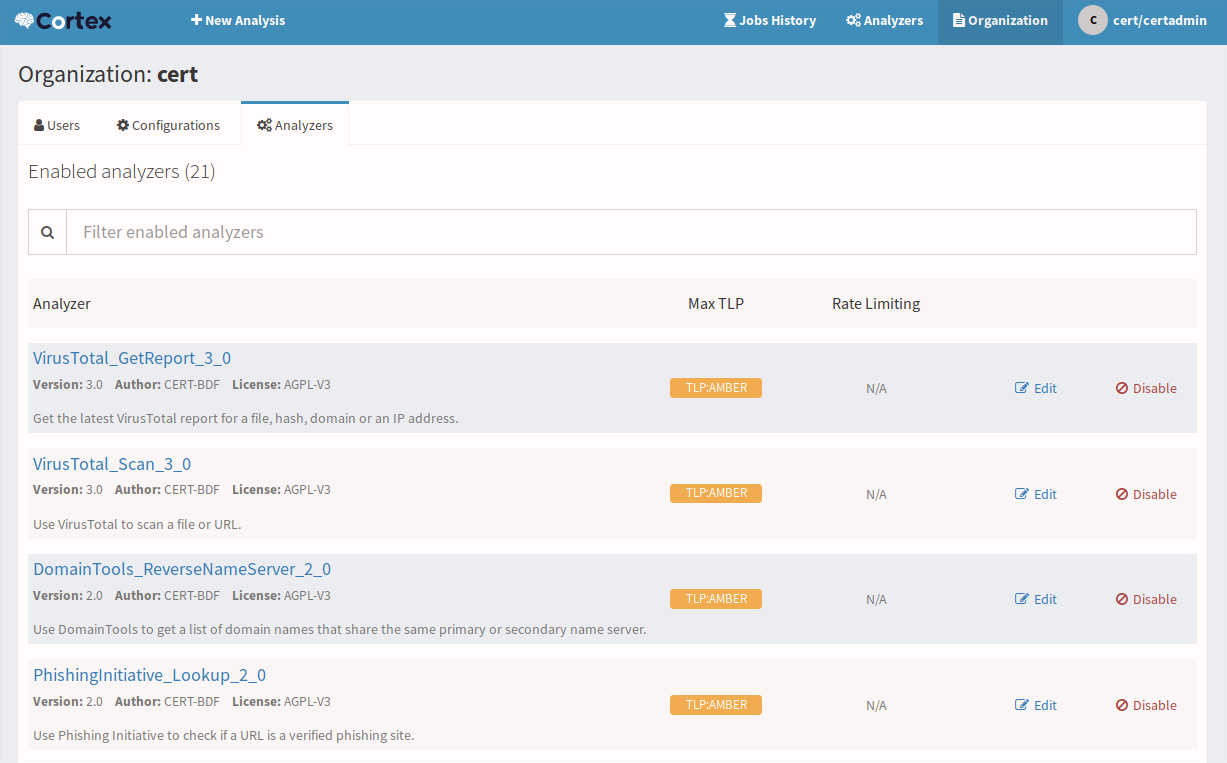
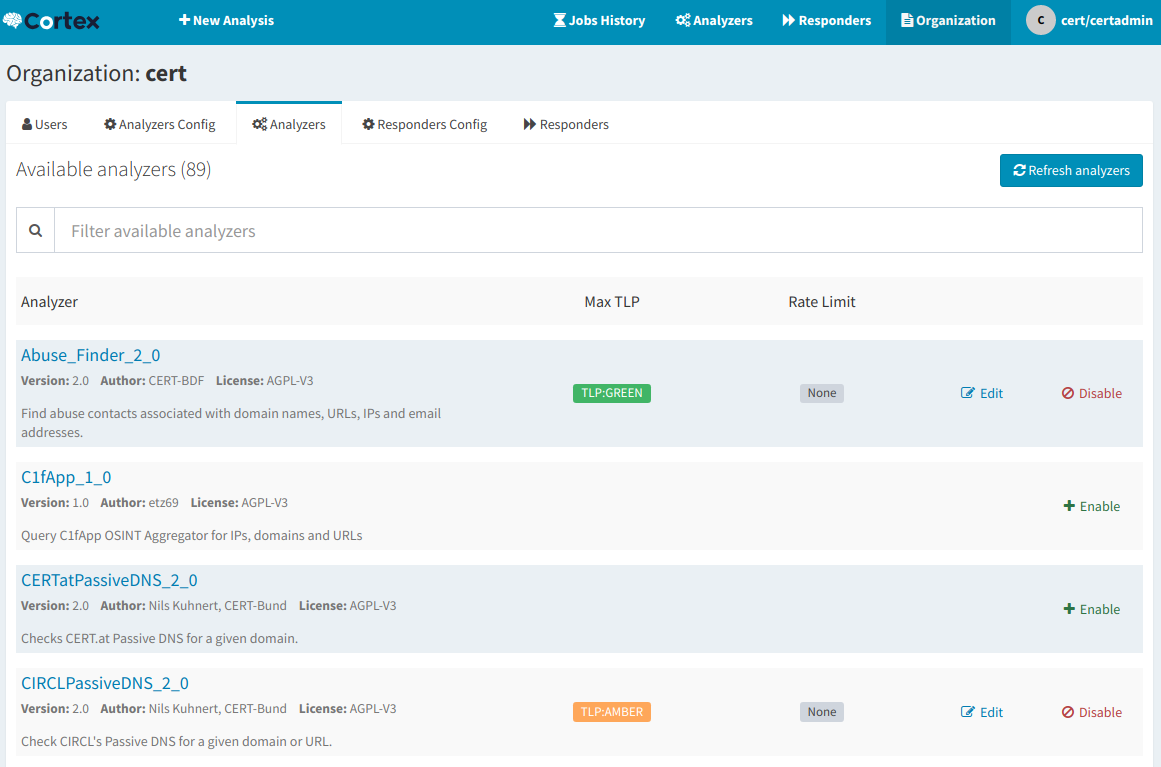
Update documenation to include responders

diff --git a/installation/install-guide.md b/installation/install-guide.md
@@ -169,6 +169,14 @@ Analyzers are embedded in the docker image under `/opt/Cortex-Analyzers/analyzer
 --volume /path/to/analyzers:/opt/Cortex-Analyzers/analyzers:ro thehiveproject/cortex:latest  
 ```
 
+#### Responders
+Like analyzers, responnders are embedded in the docker image under `/opt/Cortex-Analyzers/reponders`. To use new analyzers or get updates for the existing ones, you should
+[install them](#analyzers-1) outside of Docker and overwrite the existing ones by adding the following parameter:
+
+```
+--volume /path/to/responders:/opt/Cortex-Analyzers/responders:ro thehiveproject/cortex:latest  
+```
+
 #### What to Do Next?
 Once the Docker image is up and running, proceed to the configuration using the [Quick Start Guide](../admin/quick-start.md). For more advanced configuration options, please refer to the [Administration Guide](../admin/admin-guide.md).
 
@@ -266,9 +274,9 @@ bin/cortex -Dconfig.file=/etc/cortex/application.conf
 
 Please note that the service may take some time to start. Once it is started, you may launch your browser and connect to `http://YOUR_SERVER_ADDRESS:9001/`.
 
-#### 6. Plug Analyzers
+#### 6. Plug Analyzers and Responders
 Now that Cortex has successfully started, download `Cortex-Analyzers`, edit the configuration file then set the analyzer path to
-`Cortex-Analyzers/analyzers` as described in [the section below](#analyzers-1).
+`Cortex-Analyzers/analyzers` and `Cortex-Analyzers/responders` as described in [the section below](#analyzers-and-responders).
 
 #### 7. Update
 To update Cortex from binaries, just stop the service, download the latest package, rebuild the link `/opt/cortex` and
@@ -425,13 +433,13 @@ npm run build
 
 This step generates static files (HTML, JavaScript and related resources) in  the `dist` directory. They can be readily imported on a HTTP server.
 
-## Analyzers
-Analyzers are autonomous applications managed by and run through the Cortex core engine. Analyzers have their
+## Analyzers and Responders
+Analyzers and Responders are autonomous applications managed by and run through the Cortex core engine. They have their
 [own dedicated GitHub repository](https://github.com/TheHive-Project/Cortex-Analyzers). 
-They are included in the Cortex binary, RPM and DEB packages and in the Docker image as well. However, you to get them from the repository if you need to update them after installing one of those packages. This operation is is necessary when new analyzers are released or new versions of existing ones are made available, or if you decide to build Cortex from sources.
+They are included in the Docker image but must be installed separately in binary, RPM and DEB packages.
 
 ### Installation
-Currently, all the analyzers supported by TheHive Project are written in Python 2 or 3. They don't require any build phase but their dependencies have
+Currently, all the analyzers and responders supported by TheHive Project are written in Python 2 or 3. They don't require any build phase but their dependencies have
 to be installed. Before proceeding, you'll need to install the system package dependencies that are required by some of them:
 
 ```
@@ -452,8 +460,8 @@ git clone https://github.com/TheHive-Project/Cortex-Analyzers
 Each analyzer comes with its own, pip compatible `requirements.txt` file. You can install all requirements with the following commands:
 
 ```
-for I in Cortex-Analyzers/analyzers/*/requirements.txt; do sudo -H pip2 install -r $I; done && \
-for I in Cortex-Analyzers/analyzers/*/requirements.txt; do sudo -H pip3 install -r $I || true; done
+for I in $(find Cortex-Analyzers -name 'requirements.txt'); do sudo -H pip2 install -r $I; done && \
+for I in $(find Cortex-Analyzers -name 'requirements.txt'); do sudo -H pip3 install -r $I || true; done
 ```
 
 Next, you'll need to tell Cortex where to find the analyzers. Analyzers may be in different directories as shown in this dummy example of the Cortex configuration file (`application.conf`):
@@ -475,9 +483,26 @@ analyzer {
     parallelism-max = 4
   }
 }
+
+responder {
+  # Directory that holds responders
+  path = [
+    "/path/to/default/responder",
+    "/path/to/my/own/responder"
+  ]
+
+  fork-join-executor {
+    # Min number of threads available for analyze
+    parallelism-min = 2
+    # Parallelism (threads) ... ceil(available processors * factor)
+    parallelism-factor = 2.0
+    # Max number of threads available for analyze
+    parallelism-max = 4
+  }
+}
 ```
 ### Configuration
-All analyzers must be configured using the Web UI. Please read the [Quick Start Guide](../admin/quick-start.md) to create at least one organization then let a user with the `orgAdmin` role configure and enable analyzers for that organization.
+All analyzers and responders must be configured using the Web UI. Please read the [Quick Start Guide](../admin/quick-start.md) to create at least one organization then let a user with the `orgAdmin` role configure and enable analyzers for that organization.
 
 Some analyzers can be used out of the box, without any configuration, while others may require various parameters. Please check the [Analyzer Requirements Guide](../analyzer_requirements.md) for further details.
 
@@ -491,8 +516,8 @@ $ sudo git pull
 Then install any missing requirements:
 
 ```bash
-for I in /path/to/Cortex-Analyzers/analyzers/*/requirements.txt; do sudo -H pip2 install -r $I; done && \
-for I in /path/to/Cortex-Analyzers/analyzers/*/requirements.txt; do sudo -H pip3 install -r $I || true; done
+for I in $(find /path/to/Cortex-Analyzers -name 'requirements.txt'); do sudo -H pip2 install -r $I; done && \
+for I in $(find /path/to/Cortex-Analyzers -name 'requirements.txt'); do sudo -H pip3 install -r $I || true; done
 ```
 After running these commands, read the Analyzer Requirements Guide,  log into the Cortex 2 Web UI as an `orgAdmin`, click on the Refresh Analyzers button in the Cortex Web UI, configure the new analyzers and enjoy!
 

diff --git a/admin/admin-guide.md b/admin/admin-guide.md
@@ -87,19 +87,21 @@ User accounts cannot be deleted once created but they can be locked by an `orgAd
 
 If needed, an `orgAdmin` or a `superAdmin` can unlock a locked user account.
 
-### Analyzers
-Analyzers can be enabled, disabled and configured only by `orgAdmin` users. `superAdmins` roles cannot do that.
+### Analyzers and Responders
+Analyzers and responders can be enabled, disabled and configured only by `orgAdmin` users. `superAdmins` roles cannot do that.
 
 Analyzer management is done in two locations:
 
-- Under the *Organization* > *Configurations* tab, `orgAdmin` users can define the configuration for all the available analyzers, including settings which are common to all the flavors of a given analyzer.
-- Under the *Organization* > *Analyzers* tab, `orgAdmin` users can disable, enable and configure specific analyzer flavors. They can override the global configuration inherited from the *Organization* > *Configuration* tab and add additional, non-global configuration that some analyzer flavors might need to work correctly.
+- Under the *Organization* > *Analyzers Config* tab, `orgAdmin` users can define the configuration for all the available analyzers, including settings which are common to all the flavors of a given analyzer.
+- Under the *Organization* > *Analyzers* tab, `orgAdmin` users can disable, enable and configure specific analyzer flavors. They can override the global configuration inherited from the *Organization* > *Analyzers Config* tab and add additional, non-global configuration that some analyzer flavors might need to work correctly.
+- Under the *Organization* > *Responders Config* tab, `orgAdmin` users can define the configuration for all the available responders, including settings which are common to all the flavors of a given responders.
+- Under the *Organization* > *Responders* tab, `orgAdmin` users can disable, enable and configure specific responder flavors. They can override the global configuration inherited from the *Organization* > *Responders Config* tab and add additional, non-global configuration that some responder flavors might need to work correctly.
 
 **Important Note**:
 
 ![analyzer configuration](../images/analyzer_config.png)
 
-The analyzer configuration can only be seen by `orgAdmin` users of a given
+The configuration can only be seen by `orgAdmin` users of a given
 organization. `superAdmin` users cannot view analyzer configuration.
 
 ![analyzers](../images/analyzers.png)
@@ -148,6 +150,34 @@ search {
     # Maximum number of nested fields
     mapping.nested_fields.limit = 100
   }
+  
+  ### XPack SSL configuration
+  # Username for XPack authentication
+  #search.username
+  # Password for XPack authentication
+  #search.password
+  # Enable SSL to connect to ElasticSearch
+  search.ssl.enabled = false
+  # Path to certificate authority file
+  #search.ssl.ca
+  # Path to certificate file
+  #search.ssl.certificate
+  # Path to key file
+  #search.ssl.key
+
+  ### SearchGuard configuration
+  # Path to JKS file containing client certificate
+  #search.guard.keyStore.path
+  # Password of the keystore
+  #search.guard.keyStore.password
+  # Path to JKS file containing certificate authorities
+  #search.guard.trustStore.path
+  ## Password of the truststore
+  #search.guard.trustStore.password
+  # Enforce hostname verification
+  #search.guard.hostVerification
+  # If hostname verification is enabled specify if hostname should be resolved
+  #search.guard.hostVerificationResolveHostname
 }
 ```
 
@@ -175,17 +205,21 @@ feature: the results are retrieved through pagination. You can specify the size
 of the page (`search.pagesize`) and how long pages are kept in Elasticsearch
 ((`search.keepalive`) before purging.
 
-### Analyzers
-Cortex looks for installed analyzers by scanning directories configured in
-`analyzer.path`. This item is multi-valued.
+XPack and SearchGuard are optional and exclusive. If TheHive finds a valid configuration for XPack, SearchGuard configuration is ignored.
 
-Analyzer paths should contain directories with the corresponding analyzer JSON files. These files describe each
-analyzer flavor (name, version, license...) and how to run them.
+### Analyzers and Responders
+Cortex looks for installed analyzers and responders by scanning directories configured in
+`analyzer.path` and in `responder.path`. This item is multi-valued.
+
+These paths should contain directories with the corresponding analyzer JSON files. These files describe each
+flavor (name, version, license...) and how to run them.
 
 You can control the number of simultaneous jobs that Cortex executes in parallel using the
 `analyzer.fork-join-executor` configuration item. The value depends on the
 number of CPU cores (`parallelism-factor` * nbCores), with a minimum
 (`parallelism-min`) and a maximum (`parallelism-max`).
+
+Same settings also exists for responders
 
 ```
 analyzer {
@@ -204,7 +238,25 @@ analyzer {
     parallelism-max = 4
   }
 }
+
+responder {
+  # Directory that holds responders
+  path = [
+    "/path/to/default/responders",
+    "/path/to/my/own/responders"
+  ]
+
+  fork-join-executor {
+    # Min number of threads available for analyze
+    parallelism-min = 2
+    # Parallelism (threads) ... ceil(available processors * factor)
+    parallelism-factor = 2.0
+    # Max number of threads available for analyze
+    parallelism-max = 4
+  }
+}
 ```
+
 ### Authentication
 Like TheHive, Cortex supports local, LDAP, Active Directory (AD), X.509 SSO and/or API keys for authentication and soon OAuth2.
 
